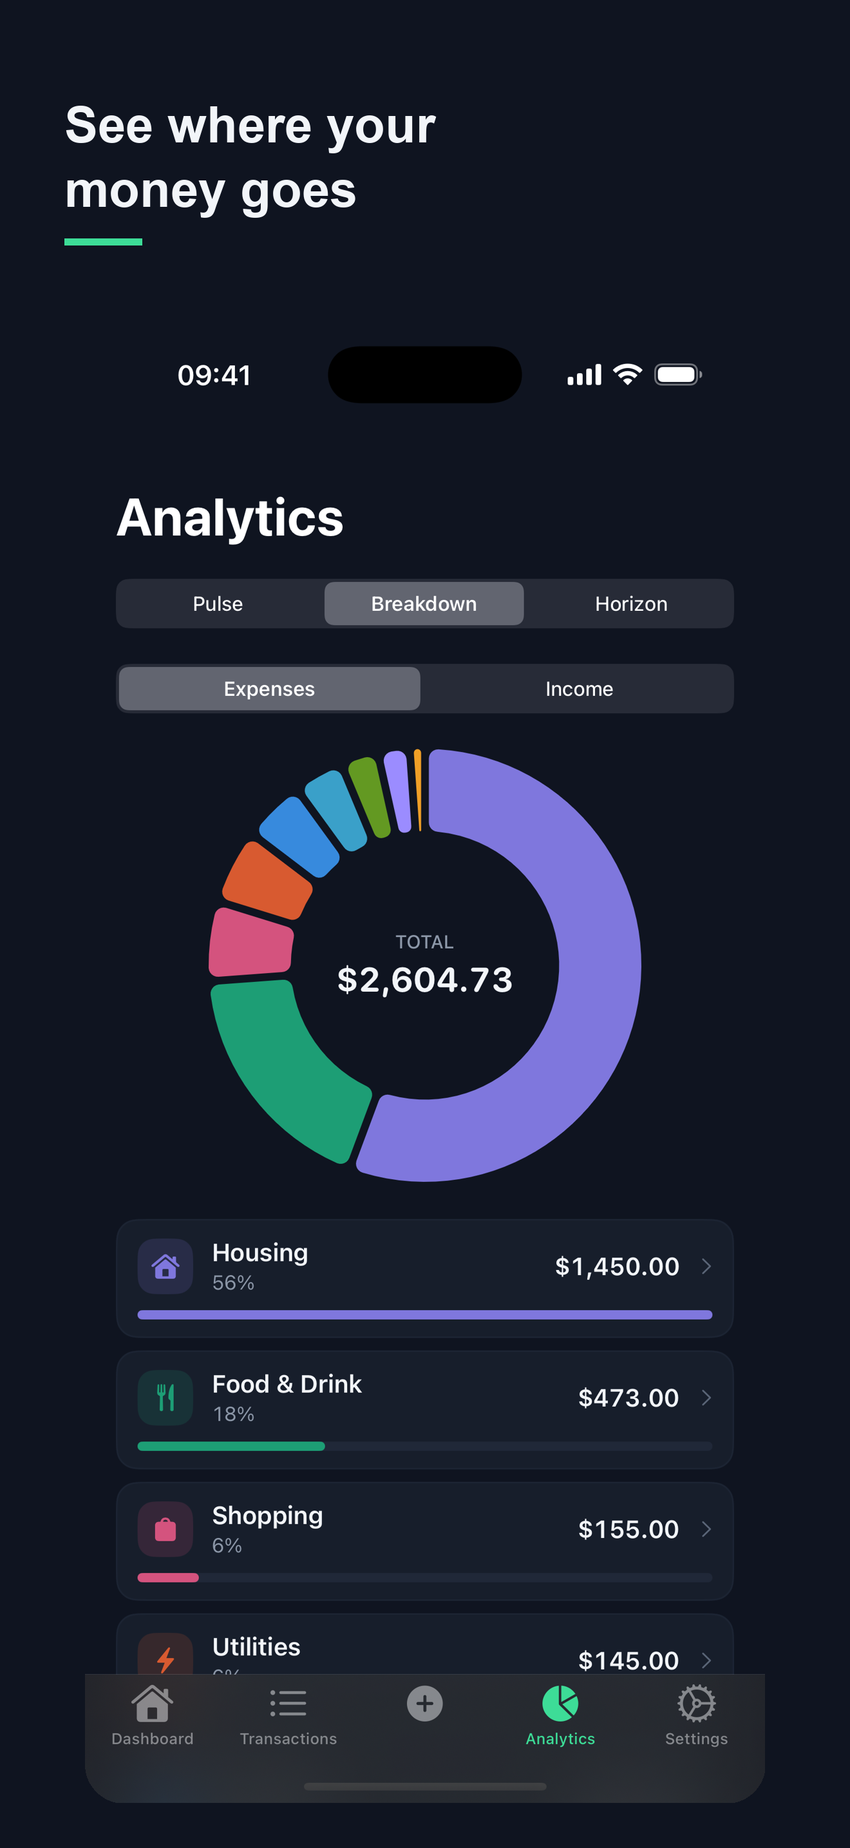
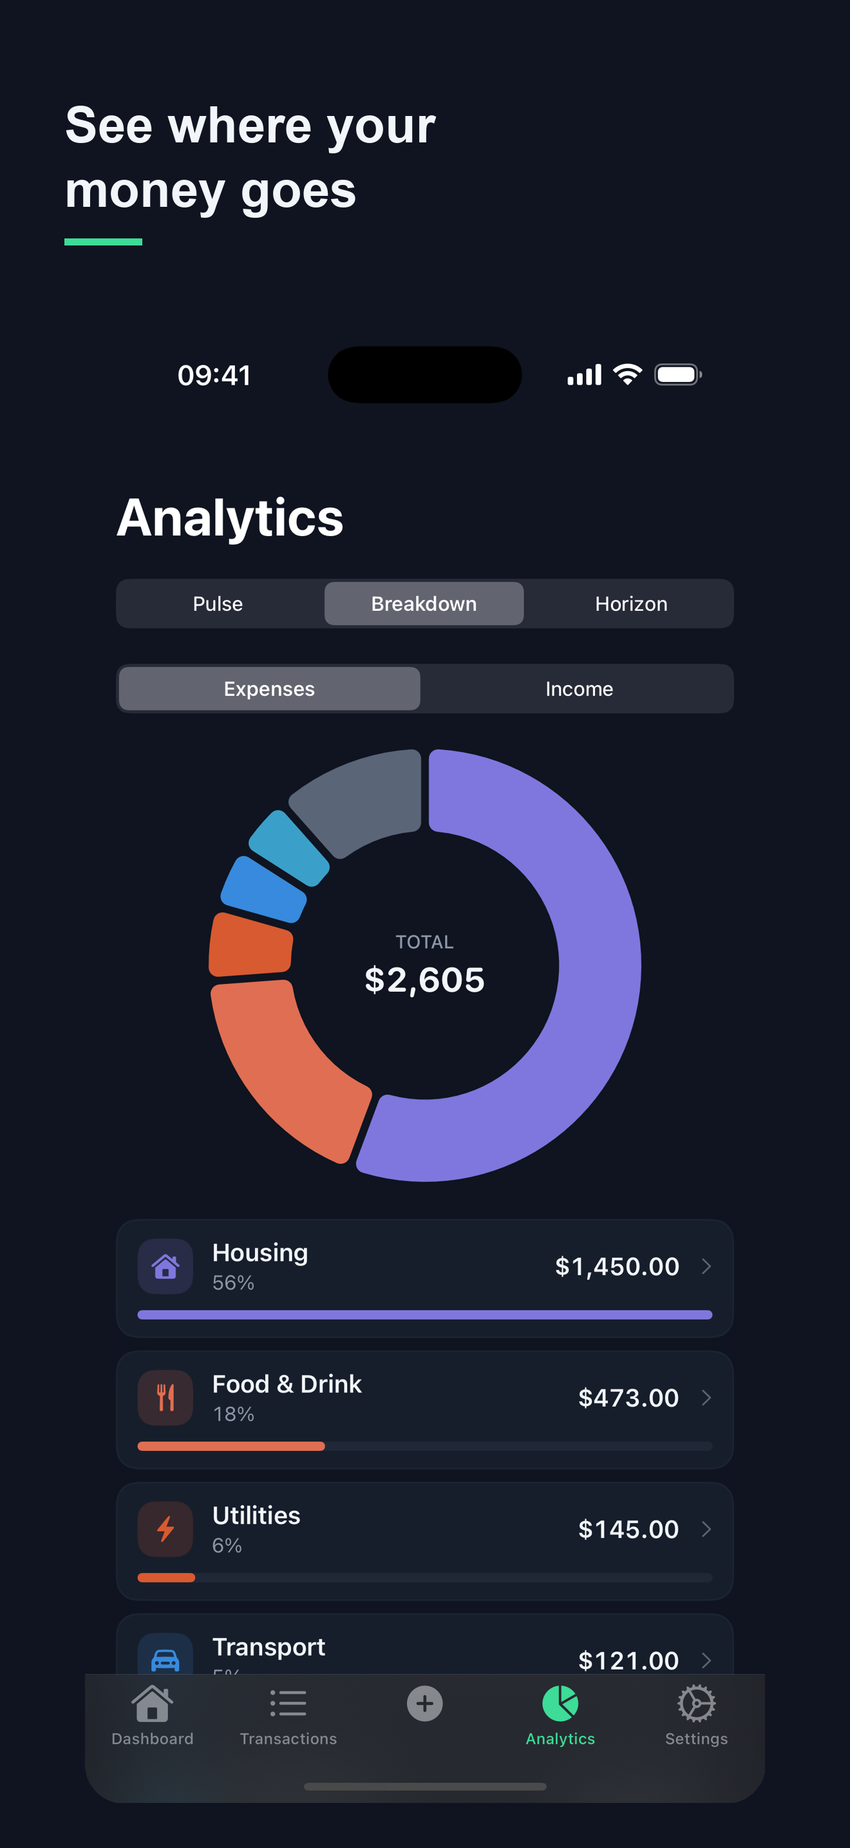
feat(screenshots): 1.0.3 shelf — split editor + gentle category limit replace categories/Face ID
The 1.0.3 features had no shelf presence: a shopper could not see that a
purchase splits across categories or that limits warn while money is still
left. Slots 05/06 carried the least new story, so they give way.

The demo seed had to produce the features for real (2.3.3 — screenshots must
be real app UI, never mocked numbers), hence two optional seed blocks:
`splits` on the day-14 marketplace order and `categoryLimits`. Limit amounts
put month-to-date spend at ~70-80% used, inside CategoryLimitPolicy's gentle
warn band — an at/over-limit seed would show nothing, because at that point
the app deliberately says nothing.

Slot 06 shows the limit label plus the sheet whose footer promises the gentle
heads-up. There is no in-app "X left in <category>" surface — that sentence
exists only as a notification body, which simctl cannot capture and which we
will not fake.

Every launch was opening on the pre-migration consent screen, so the whole
prior run captured that screen instead of the app: installing over an existing
app keeps its container, and a container from an older build carries a V1
store. The capture script now uninstalls first, which also clears the stale
appLanguageCode that used to leak the previous locale into a capture.

Captions reuse the app's own shipped wording per locale (split.section,
limit.sheet.title) so caption and screen cannot drift apart, and none states a
trial length — the 30-day intro offer is being removed for 1.0.3. Verified by
[…]

Changed region(s): [[0.2485, 0.4034, 0.5591, 0.6517], [0.1553, 0.7137, 0.3727, 0.931], [0.7144, 0.8068, 0.7455, 0.8379]]

diff --git a/FinanceTracker/Data/DemoSeeder.swift b/FinanceTracker/Data/DemoSeeder.swift
@@ -65,6 +65,9 @@ enum DemoSeeder {
             applyDemoBudget(seed.budgetMinor)
 
             let categories = seedDemoCategories(modelContext: modelContext)
+            // Monthly category limits (1.0.3 Item 3) — seeded so the limit surface
+            // shows a real, gentle "still money left" position, never "exceeded".
+            applyCategoryLimits(seed.categoryLimits, categories: categories)
             let sources = seedDemoSources(modelContext: modelContext, specs: seed.sources)
             seedDemoTransactions(
                 modelContext: modelContext,
@@ -198,6 +201,9 @@ enum DemoSeeder {
         let budgetMinor: Int       // overall monthly budget → @AppStorage("monthlyBudgetCents")
         let sources: [SourceSpec]
         let transactions: [TxSpec]
+        /// Per-category monthly limits (1.0.3 Item 3). Optional so the pre-1.0.3
+        /// seed shape still decodes.
+        let categoryLimits: [LimitSpec]?
 
         struct SourceSpec: Decodable {
             let key: String
@@ -210,6 +216,18 @@ enum DemoSeeder {
             let minor: Int         // amount in minor currency units (cents/kopecks/centavos)
             let merchant: String?
             let type: String       // "income" | "expense"
+            /// Child splits of this purchase (1.0.3 Item 4). Σ splits MUST be
+            /// ≤ minor — the remainder implicitly stays in `category`, exactly
+            /// as `CategoryAttribution` interprets it. Optional.
+            let splits: [SplitSpec]?
+        }
+        struct SplitSpec: Decodable {
+            let category: String   // English category name
+            let minor: Int
+        }
+        struct LimitSpec: Decodable {
+            let category: String   // English category name
+            let minor: Int         // monthly limit in minor units
         }
     }
 
@@ -222,7 +240,7 @@ enum DemoSeeder {
         #endif
         if let fallback = decodeSeed(named: "DemoSeed_en") { return fallback }
         // Last-resort empty USD seed so a missing-resource build never crashes.
-        return Seed(locale: "en", currencyCode: "USD", budgetMinor: 0, sources: [], transactions: [])
+        return Seed(locale: "en", currencyCode: "USD", budgetMinor: 0, sources: [], transactions: [], categoryLimits: nil)
     }
 
     private static func decodeSeed(named name: String) -> Seed? {
@@ -372,6 +390,48 @@ enum DemoSeeder {
                 isDemo: markAsDemo
             )
             modelContext.insert(tx)
+            attachSplits(e.splits, to: tx, categories: categories, modelContext: modelContext)
+        }
+    }
+
+    /// Attaches the seed's child splits to one purchase (1.0.3 Item 4). Guards the
+    /// remainder invariant the editor enforces (Σ splits ≤ parent total) so a
+    /// mis-edited seed can never produce an over-sum the app itself refuses to save.
+    private static func attachSplits(
+        _ specs: [Seed.SplitSpec]?,
+        to tx: Transaction,
+        categories: [String: Category],
+        modelContext: ModelContext
+    ) {
+        guard let specs, !specs.isEmpty else { return }
+        let sum = specs.reduce(0) { $0 + $1.minor }
+        guard sum <= tx.amountCents else {
+            #if DEBUG
+            print("[DemoSeeder] ⚠ Splits over-sum for '\(tx.merchant ?? "—")' (\(sum) > \(tx.amountCents)) — skipping splits")
+            #endif
+            return
+        }
+        for (i, spec) in specs.enumerated() {
+            guard spec.minor > 0, let cat = categories[spec.category] else { continue }
+            let split = TransactionSplit(amountCents: spec.minor, category: cat, order: i)
+            // Insert BEFORE relating: the parent link materializes the inverse on
+            // Transaction.splits, and that must happen on an already-registered object.
+            modelContext.insert(split)
+            split.parent = tx
+        }
+    }
+
+    /// Sets `Category.limitCents` for the seeded limits. Amounts in the seeds are
+    /// chosen so month-to-date spend sits in the gentle warn band (~70–80% used):
+    /// money is still left, so the limit never reads as a scolding.
+    private static func applyCategoryLimits(
+        _ specs: [Seed.LimitSpec]?,
+        categories: [String: Category]
+    ) {
+        guard let specs else { return }
+        for spec in specs {
+            guard spec.minor > 0, let cat = categories[spec.category] else { continue }
+            cat.limitCents = spec.minor
         }
     }
 

diff --git a/FinanceTracker/Views/ContentView.swift b/FinanceTracker/Views/ContentView.swift
@@ -290,7 +290,7 @@ struct ContentView: View {
         case .dashboard:  selectedTab = 0
         case .analytics:  selectedTab = 3   // AnalyticsView selects .breakdown itself
         case .quickentry: showAddSheet = true
-        case .privacy, .categories, .export, .lifetime:
+        case .privacy, .categories, .categorylimit, .split, .export, .lifetime:
             screenshotCover = screen
         case .lock:
             break   // handled upstream by AuthGateView
@@ -303,6 +303,17 @@ struct ContentView: View {
         switch screen {
         case .privacy:    PrivacySettingsView()
         case .categories: CategoriesSourcesView()
+        // Slot 06 is the same Categories surface; CategoriesSourcesView reads
+        // `requestedScreen` and auto-presents the monthly-limit sheet for the
+        // seeded limited category, so the frame shows the real gentle-limit UI.
+        case .categorylimit: CategoriesSourcesView()
+        // Slot 05 — the split editor on the seeded multi-category purchase.
+        case .split:
+            if let tx = screenshotSplitTransaction() {
+                EditTransactionView(transaction: tx)
+            } else {
+                EmptyView()
+            }
         case .export:     DataSettingsView()
         // Slot 08 renders the calm, no-price ownership close — not the mock
         // paywall. Prices are banned in screenshots and off-brand vs the Ruler
@@ -310,6 +321,16 @@ struct ContentView: View {
         case .lifetime:   OwnershipCloseView()
         default:          EmptyView()
         }
+    }
+
+    /// The seeded multi-category purchase (DemoSeed `splits`) that slot 05 edits.
+    /// Only ever reached through `ScreenshotMode.requestedScreen`, which is nil in
+    /// Release — so this fetch never runs in a shipped build.
+    private func screenshotSplitTransaction() -> Transaction? {
+        let all = (try? modelContext.fetch(FetchDescriptor<Transaction>())) ?? []
+        return all
+            .filter { CategoryAttribution.isSplit($0) }
+            .max { $0.amountCents < $1.amountCents }
     }
 
     private func handlePendingIntentNavigation() {

diff --git a/FinanceTracker/Views/Settings/CategoriesSourcesView.swift b/FinanceTracker/Views/Settings/CategoriesSourcesView.swift
@@ -63,6 +63,16 @@ struct CategoriesSourcesView: View {
     }
 
     var body: some View {
+        // ScrollViewReader is only here for the screenshot seam below (scroll the
+        // limited category into view before the sheet covers the lower half). It is
+        // a transparent container — normal scrolling and layout are unchanged.
+        ScrollViewReader { scroll in
+            listBody(scroll: scroll)
+        }
+    }
+
+    @ViewBuilder
+    private func listBody(scroll: ScrollViewProxy) -> some View {
         List {
             sourcesSection
             expenseSection
@@ -98,6 +108,22 @@ struct CategoriesSourcesView: View {
                 .presentationDetents([.medium])
         }
         .confirmationToast($toastMessage)
+        // Screenshot seam (slot 06): App Store capture routes here to show the
+        // gentle monthly-limit surface, and `simctl` can't tap a row. Present the
+        // sheet for the first limited expense category the demo seed set. Gated on
+        // `requestedScreen`, which is nil in Release — a shipped build never does this.
+        .task {
+            guard ScreenshotMode.requestedScreen == .categorylimit else { return }
+            // Let the @Query settle after the demo seed's save before reading it.
+            try? await Task.sleep(for: .milliseconds(500))
+            guard let limited = expenseCategories.first(where: { ($0.limitCents ?? 0) > 0 })
+            else { return }
+            // Scroll the limited row to the top so the strip left visible above the
+            // sheet shows the category and its limit, not the Accounts list.
+            scroll.scrollTo(limited.uuid, anchor: .top)
+            try? await Task.sleep(for: .milliseconds(400))
+            editingLimitCategory = limited
+        }
     }
 
     // MARK: - Free-tier caps

diff --git a/FinanceTracker/Data/ScreenshotMode.swift b/FinanceTracker/Data/ScreenshotMode.swift
@@ -24,14 +24,19 @@ enum ScreenshotMode {
     enum Screen: String, Identifiable {
         var id: String { rawValue }
 
-        case dashboard      // 01 — hero
+        case dashboard      // 01 — hero (daily allowance / pace)
         case privacy        // 02 — on-device differentiator
         case quickentry     // 03 — fast capture
-        case analytics      // 04 — breakdown chart
-        case categories     // 05 — categories & accounts
-        case lock           // 06 — Face ID gate
+        case analytics      // 04 — breakdown chart (split contributes)
+        case split          // 05 — one purchase across categories (1.0.3)
+        case categorylimit  // 06 — gentle monthly category limit (1.0.3)
         case export         // 07 — data ownership / export
-        case lifetime       // 08 — paywall / ownership close
+        case lifetime       // 08 — ownership close
+        // Retired from the shelf at 1.0.3 (05_categories / 06_faceid) but kept
+        // routable: AuthGateView still reads `.lock`, and both remain useful for
+        // ad-hoc captures.
+        case categories
+        case lock
     }
 
     /// The screen to route to on launch, or `nil` for a normal launch.

diff --git a/AppStore/compose-screenshots.py b/AppStore/compose-screenshots.py
@@ -37,18 +37,24 @@ if FONT is None:
     sys.exit("No usable bold font found. Set FONT=/path/to/font.ttf")
 CANVAS = (1320, 2868)
 FILES = ["01_dashboard", "02_privacy", "03_quickentry", "04_analytics",
-         "05_categories", "06_faceid", "07_export", "08_lifetime"]
+         "05_split", "06_limits", "07_export", "08_lifetime"]
 # Captions are OCR-indexed by Apple (2026) — keyword-rich, top-left, ≥40pt.
 # Sequence (ASC_METADATA_FINAL "Screenshot captions"): Private/on-device →
 # No bank linking → Track in 10s → Safe to spend → Export → Cancel anytime.
-# Mapped onto the 8 fixed storyboard screens; slots 2 combines the top-2
-# privacy props (highest-attention slot), slot 8 closes on honest billing.
+# Mapped onto the 8 storyboard screens; slot 2 combines the top-2 privacy props
+# (highest-attention slot), slot 8 closes on honest billing.
+#
+# 1.0.3: slots 5 and 6 now carry the two new features. Their wording reuses the
+# app's OWN shipped terms so the caption and the screen agree word-for-word —
+# split.section ("Split across categories" / "Разделить по категориям" / …) and
+# limit.sheet.title ("Monthly limit" / "Месячный лимит" / …). No caption may
+# state a trial length: the 30-day intro offer is being removed for 1.0.3.
 CAP = {
- "EN": ["Safe to spend, every day", "Private & on-device · No bank linking", "Track spending in 10 seconds", "See where your money goes", "Organize by category & account", "Locked with Face ID", "Export anytime · CSV / PDF / Excel", "Cancel anytime · no ads"],
- "RU": ["Сколько можно тратить — каждый день", "Приватно, на устройстве · Без привязки банка", "Записывайте траты за 10 секунд", "Видно, куда уходят деньги", "Категории и счета — всё на местах", "Защита входа через Face ID", "Экспорт в любой момент · CSV / PDF / Excel", "Отмена в любой момент · без рекламы"],
- "ES": ["Cuánto puedes gastar, cada día", "Privado, en tu iPhone · Sin vincular banco", "Registra gastos en 10 segundos", "Mira a dónde va tu dinero", "Organiza por categoría y cuenta", "Protegido con Face ID", "Exporta cuando quieras · CSV / PDF / Excel", "Cancela cuando quieras · sin anuncios"],
- "PT-BR": ["Quanto dá para gastar, todo dia", "Privado, no seu iPhone · Sem vincular banco", "Registre gastos em 10 segundos", "Veja para onde vai seu dinheiro", "Organize por categoria e conta", "Protegido com Face ID", "Exporte quando quiser · CSV / PDF / Excel", "Cancele quando quiser · sem anúncios"],
- "UK": ["Скільки можна витрачати — щодня", "Приватно, на пристрої · Без прив'язки банку", "Записуйте витрати за 10 секунд", "Дивіться, куди йдуть гроші", "Категорії та рахунки — усе на місці", "Захист входу через Face ID", "Експорт будь-коли · CSV / PDF / Excel", "Скасування будь-коли · без реклами"],
+ "EN": ["Safe to spend, every day", "Private & on-device · No bank linking", "Track spending in 10 seconds", "See where your money goes", "Split one purchase across categories", "Gentle monthly limits, never a scolding", "Export anytime · CSV / PDF / Excel", "Cancel anytime · no ads"],
+ "RU": ["Сколько можно тратить — каждый день", "Приватно, на устройстве · Без привязки банка", "Записывайте траты за 10 секунд", "Видно, куда уходят деньги", "Разделить покупку по категориям", "Мягкий месячный лимит, а не выговор", "Экспорт в любой момент · CSV / PDF / Excel", "Отмена в любой момент · без рекламы"],
+ "ES": ["Cuánto puedes gastar, cada día", "Privado, en tu iPhone · Sin vincular banco", "Registra gastos en 10 segundos", "Mira a dónde va tu dinero", "Una compra, dividida entre categorías", "Límite mensual amable, nunca un regaño", "Exporta cuando quieras · CSV / PDF / Excel", "Cancela cuando quieras · sin anuncios"],
+ "PT-BR": ["Quanto dá para gastar, todo dia", "Privado, no seu iPhone · Sem vincular banco", "Registre gastos em 10 segundos", "Veja para onde vai seu dinheiro", "Uma compra, dividida entre categorias", "Limite mensal gentil, nunca uma bronca", "Exporte quando quiser · CSV / PDF / Excel", "Cancele quando quiser · sem anúncios"],
+ "UK": ["Скільки можна витрачати — щодня", "Приватно, на пристрої · Без прив'язки банку", "Записуйте витрати за 10 секунд", "Дивіться, куди йдуть гроші", "Розділити покупку за категоріями", "М'який місячний ліміт, а не докір", "Експорт будь-коли · CSV / PDF / Excel", "Скасування будь-коли · без реклами"],
 }
 
 def wrap(draw, text, font, maxw):

diff --git a/AppStore/screenshots-storyboard.md b/AppStore/screenshots-storyboard.md
@@ -20,8 +20,8 @@ Most users see only the first 2–3 thumbnails, so the privacy wedge — the sin
 | 2 | Differentiator | Privacy / on-device | Lead with the wedge while attention is highest |
 | 3 | Core feature | QuickEntry | Show the "aha" — effortless capture |
 | 4 | Insight | Analytics breakdown | Proof of payoff |
-| 5 | Organization | Categories & Accounts | Depth + Ruler order |
-| 6 | Trust | Face ID lock | Reinforce privacy/control |
+| 5 | Depth (1.0.3) | Split editor | One purchase, several categories |
+| 6 | Care (1.0.3) | Category monthly limit | Warns while money is LEFT, never after |
 | 7 | Ownership of data | Export (CSV/PDF/Excel) | "Your data, portable" — no lock-in |
 | 8 | CTA | Lifetime / clean close | Calm close, ownership |
 
@@ -80,25 +80,26 @@ Most users see only the first 2–3 thumbnails, so the privacy wedge — the sin
   - **ES:** Mira a dónde va tu dinero
   - **PT-BR:** Veja para onde vai seu dinheiro
 
-### SCREENSHOT 5 — ORGANIZATION · Categories & Accounts
-- **Visual:** Categories & Accounts (Card, Cash, etc.) with SF Symbol icons. Shows the two-tier category taxonomy without clutter.
-- **Background:** consistent cream.
-- **Notes:** Ruler "everything in its place." Don't overcrowd — 6–8 tidy rows.
-- **Caption:**
-  - **EN:** Organize by category and account
-  - **RU:** Категории и счета — всё на местах
-  - **ES:** Organiza por categoría y cuenta
-  - **PT-BR:** Organize por categoria e conta
+### SCREENSHOT 5 — DEPTH · Split editor  *(new in 1.0.3, replaces Categories & Accounts)*
+- **Visual:** `EditTransactionView` on the seeded marketplace order (Amazon / Ozon / Rozetka).
+  The SPLIT ACROSS CATEGORIES section shows two parts plus the remainder footer
+  ("$26.00 stays in Shopping.") — the whole remainder model in one frame.
+- **Route:** `--screenshot-screen split`. Data comes from the DemoSeed `splits` block on the
+  day-14 Shopping row; the parts are whole numbers so no "18.5" appears in an amount field.
+- **Notes:** Caption reuses the app's own `split.section` wording per locale, so the caption and
+  the on-screen section header agree word-for-word.
 
-### SCREENSHOT 6 — TRUST · Face ID lock
-- **Visual:** AuthGate / Face ID lock screen (biometric prompt over the blurred privacy overlay).
-- **Background:** consistent cream.
-- **Notes:** Reinforces the privacy theme tangibly. "Lock it behind Face ID" — concrete, no banned terms.
-- **Caption:**
-  - **EN:** Lock it behind Face ID
-  - **RU:** Защитите вход через Face ID
-  - **ES:** Protégelo con Face ID
-  - **PT-BR:** Proteja com Face ID
+### SCREENSHOT 6 — CARE · Category monthly limit  *(new in 1.0.3, replaces Face ID lock)*
+- **Visual:** `CategoriesSourcesView` scrolled to the limited category (mint
+  "Limit: $600.00/month") with the Monthly limit sheet presented over it. The sheet's footer is
+  the proof of the caption: "a gentle heads-up while there's still money left — never after
+  it's gone."
+- **Route:** `--screenshot-screen categorylimit`. The seed sets limits so month-to-date spend
+  lands at ~70–80% used — the gentle warn band. NEVER seed an at/over-limit state: the app
+  deliberately says nothing there (`CategoryLimitPolicy`), so there'd be nothing to show.
+- **Notes:** There is no in-app "X left in <category>" surface — that sentence only exists as a
+  local-notification body, which can't be captured under `simctl` and mustn't be faked (2.3.3).
+  The limit label + the promise footer are the honest real-UI equivalent.
 
 ### SCREENSHOT 7 — DATA OWNERSHIP · Export
 - **Visual:** Data settings export sheet — CSV / PDF / Excel options visible.
@@ -124,14 +125,20 @@ Most users see only the first 2–3 thumbnails, so the privacy wedge — the sin
 
 ## Caption sheet (copy-ready, all locales)
 
+> **The shipped captions live in `AppStore/compose-screenshots.py` (`CAP`), which is the single
+> source of truth** — it covers all five shelf locales (incl. UK) and is what actually gets
+> baked into the composed PNGs. The table below is the original storyboard intent, kept for the
+> reasoning; where the two differ, the script wins. No caption may state a trial length (the
+> 30-day intro offer is removed for 1.0.3).
+
 | # | EN | RU | ES | PT-BR |
 |---|----|----|----|----|
 | 1 | Your money, calmly in control | Финансы под спокойным контролем | Tus finanzas, bajo control y en calma | Suas finanças sob controle e tranquilas |
 | 2 | Your data stays on your iPhone | Данные остаются на вашем iPhone | Tus datos se quedan en tu iPhone | Seus dados ficam no seu iPhone |
 | 3 | Log spending in seconds | Записывайте траты за секунды | Registra tus gastos en segundos | Registre gastos em segundos |
 | 4 | See where your money goes | Видно, куда уходят деньги | Mira a dónde va tu dinero | Veja para onde vai seu dinheiro |
-| 5 | Organize by category and account | Категории и счета — всё на местах | Organiza por categoría y cuenta | Organize por categoria e conta |
-| 6 | Lock it behind Face ID | Защитите вход через Face ID | Protégelo con Face ID | Proteja com Face ID |
+| 5 | Split one purchase across categories | Разделить покупку по категориям | Una compra, dividida entre categorías | Uma compra, dividida entre categorias |
+| 6 | Gentle monthly limits, never a scolding | Мягкий месячный лимит, а не выговор | Límite mensual amable, nunca un regaño | Limite mensal gentil, nunca uma bronca |
 | 7 | Export to CSV, PDF, or Excel | Экспорт в CSV, PDF и Excel | Exporta a CSV, PDF o Excel | Exporte para CSV, PDF ou Excel |
 | 8 | Yours to keep, for life | Останется с вами навсегда | Tuyo para siempre | Seu para sempre |
 
